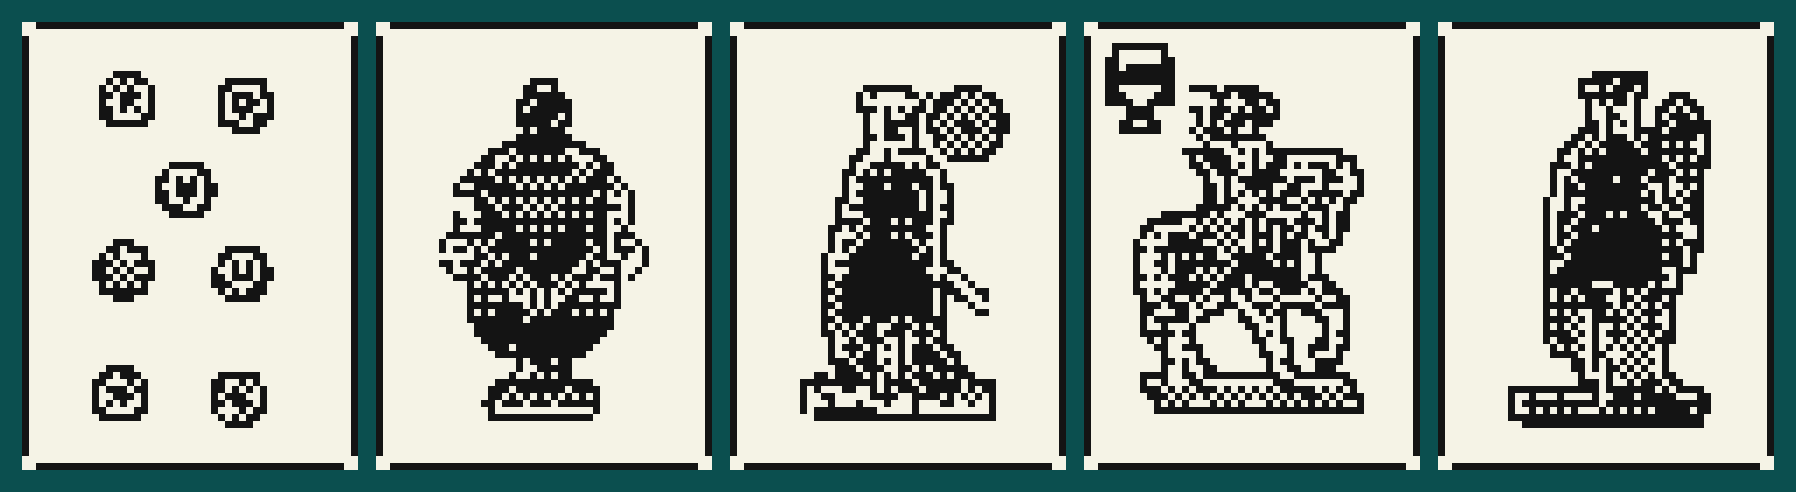
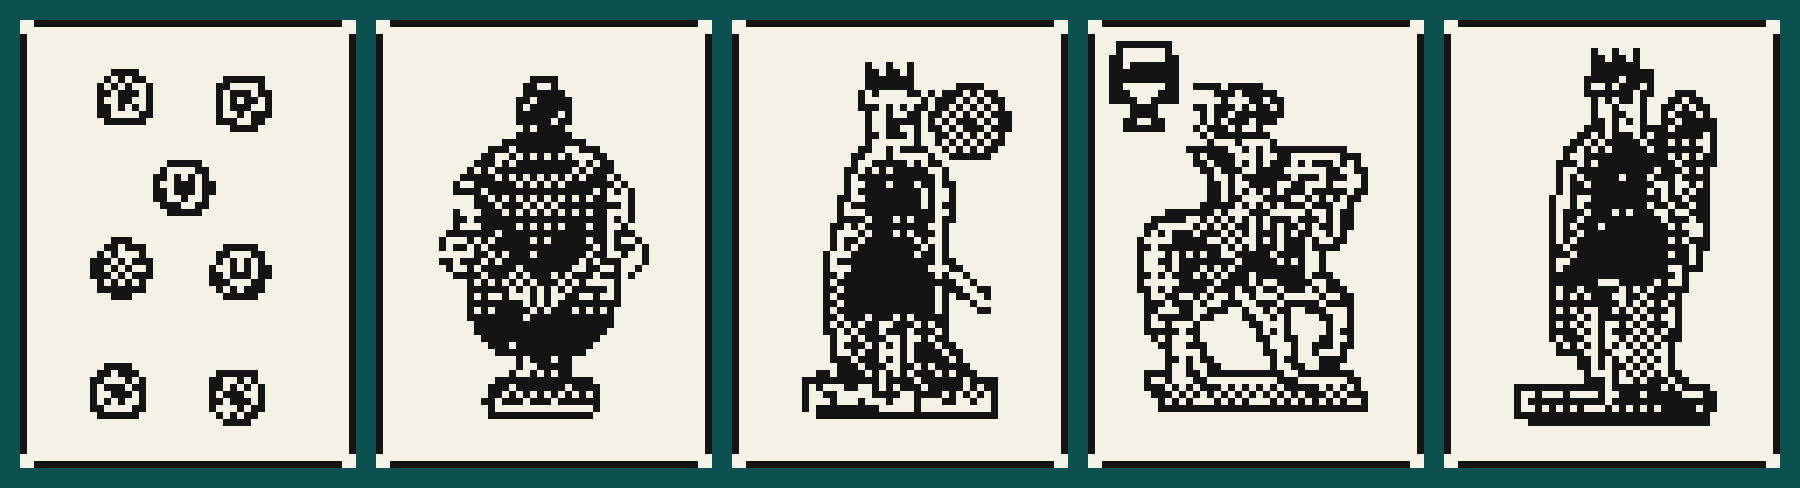
Site: regenerate deck montages from the crowned deck.bin
The deck.png + cards_hero.png on the site predated the R42 crowned kings (they
were never regenerated). New tools/render_deck.py renders both straight from the
shipped deck.bin (41x384 linear 1bpp), so the four kings now wear the crown that
distinguishes them from the bare-headed Fante. Cache-busted (?v=2).

diff --git a/site/index.html b/site/index.html
@@ -96,8 +96,8 @@
       crisp black linework with ordered-dither shading — traced faithfully from a real
       <em>Napoletane</em> deck. The four suits (coins, cups, swords, clubs), the settebello,
       and the court figures with their hand-placed suit emblems, all on a single 48&nbsp;KB machine.</p>
-    <figure class="deck-hero"><img src="img/cards_hero.png" alt="Five cards close up: the seven of coins, ace of cups, king of coins, knight of cups and king of clubs"></figure>
-    <figure class="deck-full"><img src="img/deck.png" alt="The complete forty-card Neapolitan deck rendered for the ZX Spectrum">
+    <figure class="deck-hero"><img src="img/cards_hero.png?v=2" alt="Five cards close up: the seven of coins, ace of cups, king of coins, knight of cups and king of clubs"></figure>
+    <figure class="deck-full"><img src="img/deck.png?v=2" alt="The complete forty-card Neapolitan deck rendered for the ZX Spectrum">
       <figcaption>The complete forty-card deck.</figcaption></figure>
   </div>
 </section>

diff --git a/tools/render_deck.py b/tools/render_deck.py
@@ -1,0 +1,46 @@
+#!/usr/bin/env python3
+"""Render the website montages (deck.png + cards_hero.png) straight from the game's deck.bin,
+so they always match the SHIPPED card art (incl. the R42 crowned kings). deck.bin = 41 cards x
+384 bytes, each a linear 1bpp 48x64 bitmap (MSB = leftmost pixel; 1 = ink). Card ids: 0-9 denari,
+10-19 coppe, 20-29 spade, 30-39 bastoni, 40 = BACK. Theme colours sampled from the live site."""
+import os
+from PIL import Image
+
+HERE = os.path.dirname(os.path.abspath(__file__))
+DECK = os.path.join(HERE, "..", "deck.bin")
+IMG  = os.path.join(HERE, "..", "site", "img")
+PAPER, INK, FELT = (245, 243, 230), (20, 20, 20), (11, 79, 79)
+b = open(DECK, "rb").read()
+
+def card(idx, scale):
+    o = idx * 384
+    im = Image.new("RGB", (48, 64), PAPER); px = im.load()
+    for row in range(64):
+        for bx in range(6):
+            byte = b[o + row * 6 + bx]
+            for bit in range(8):
+                if byte & (0x80 >> bit):
+                    px[bx * 8 + bit, row] = INK
+    return im.resize((48 * scale, 64 * scale), Image.NEAREST)
+
+# --- full deck montage: 8 x 5, ids 0..39 ---
+S, COLS, ROWS, GAP = 3, 8, 5, 12
+CW, CH = 48 * S, 64 * S
+W, H = COLS * CW + (COLS + 1) * GAP, ROWS * CH + (ROWS + 1) * GAP
+M = Image.new("RGB", (W, H), FELT)
+for idx in range(40):
+    r, c = divmod(idx, COLS)
+    M.paste(card(idx, S), (GAP + c * (CW + GAP), GAP + r * (CH + GAP)))
+M.save(os.path.join(IMG, "deck.png"))
+print(f"deck.png  = {W}x{H}  (8x5, ids 0-39)")
+
+# --- hero strip: seven of coins, ace of cups, king of coins, knight of cups, king of clubs ---
+HERO = [6, 10, 9, 18, 39]
+S2, GAP2 = 7, 20
+cw, ch = 48 * S2, 64 * S2
+W2, H2 = len(HERO) * cw + (len(HERO) + 1) * GAP2, ch + 2 * GAP2
+Hm = Image.new("RGB", (W2, H2), FELT)
+for i, idx in enumerate(HERO):
+    Hm.paste(card(idx, S2), (GAP2 + i * (cw + GAP2), GAP2))
+Hm.save(os.path.join(IMG, "cards_hero.png"))
+print(f"cards_hero.png = {W2}x{H2}  (ids {HERO}; kings 9 & 39 crowned)")